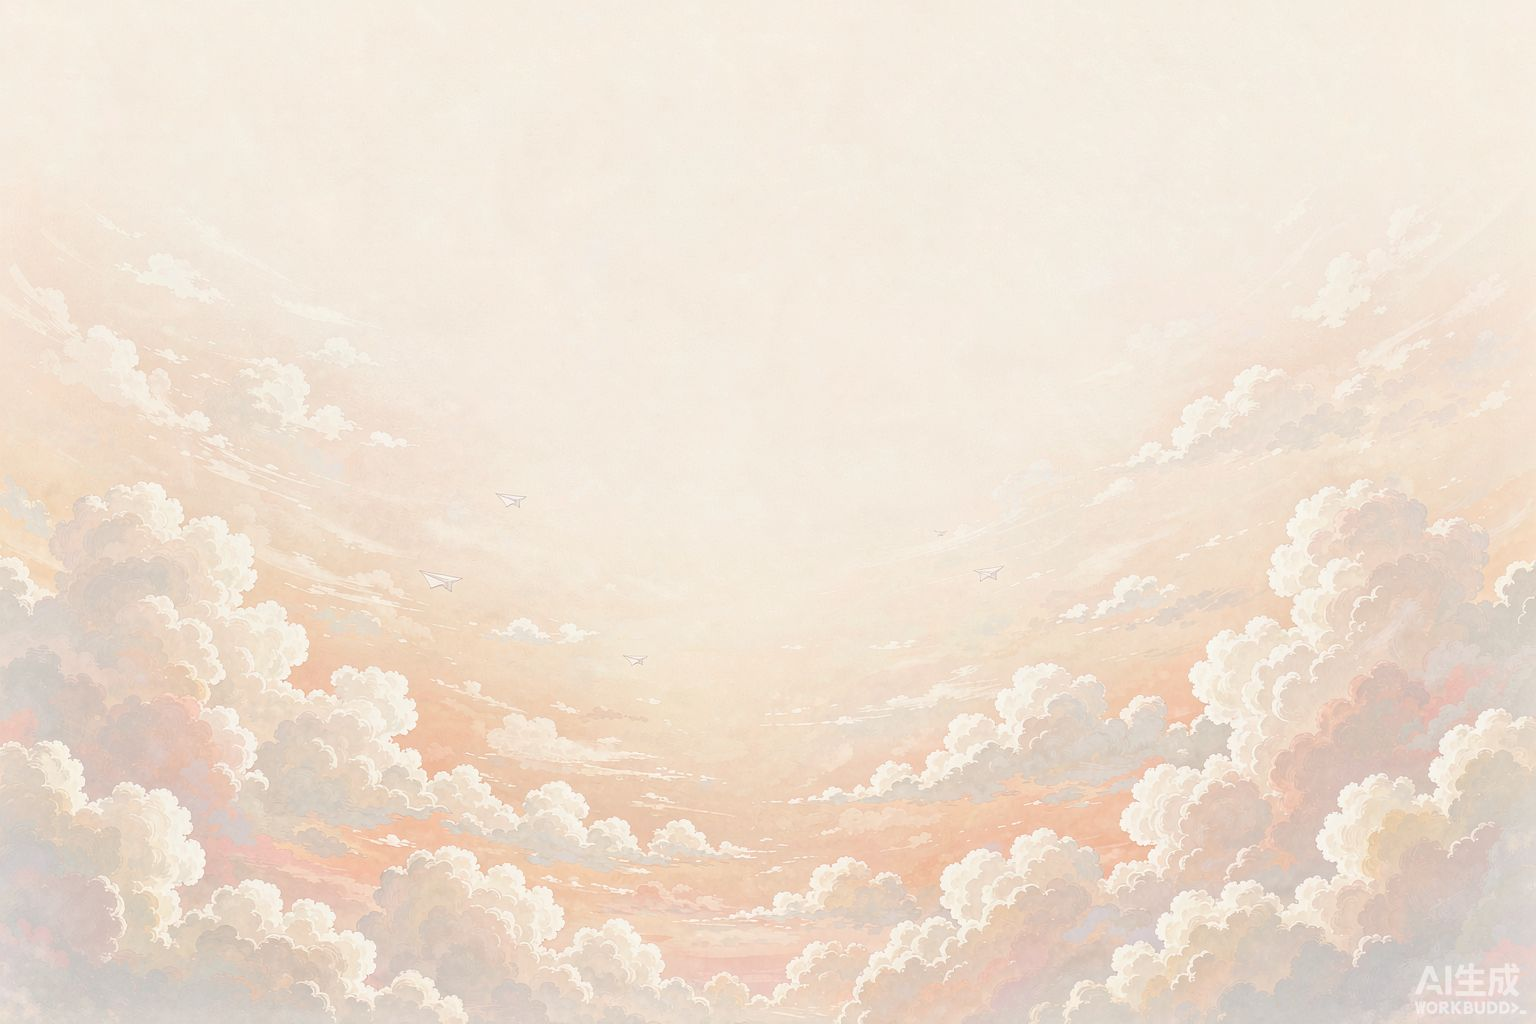
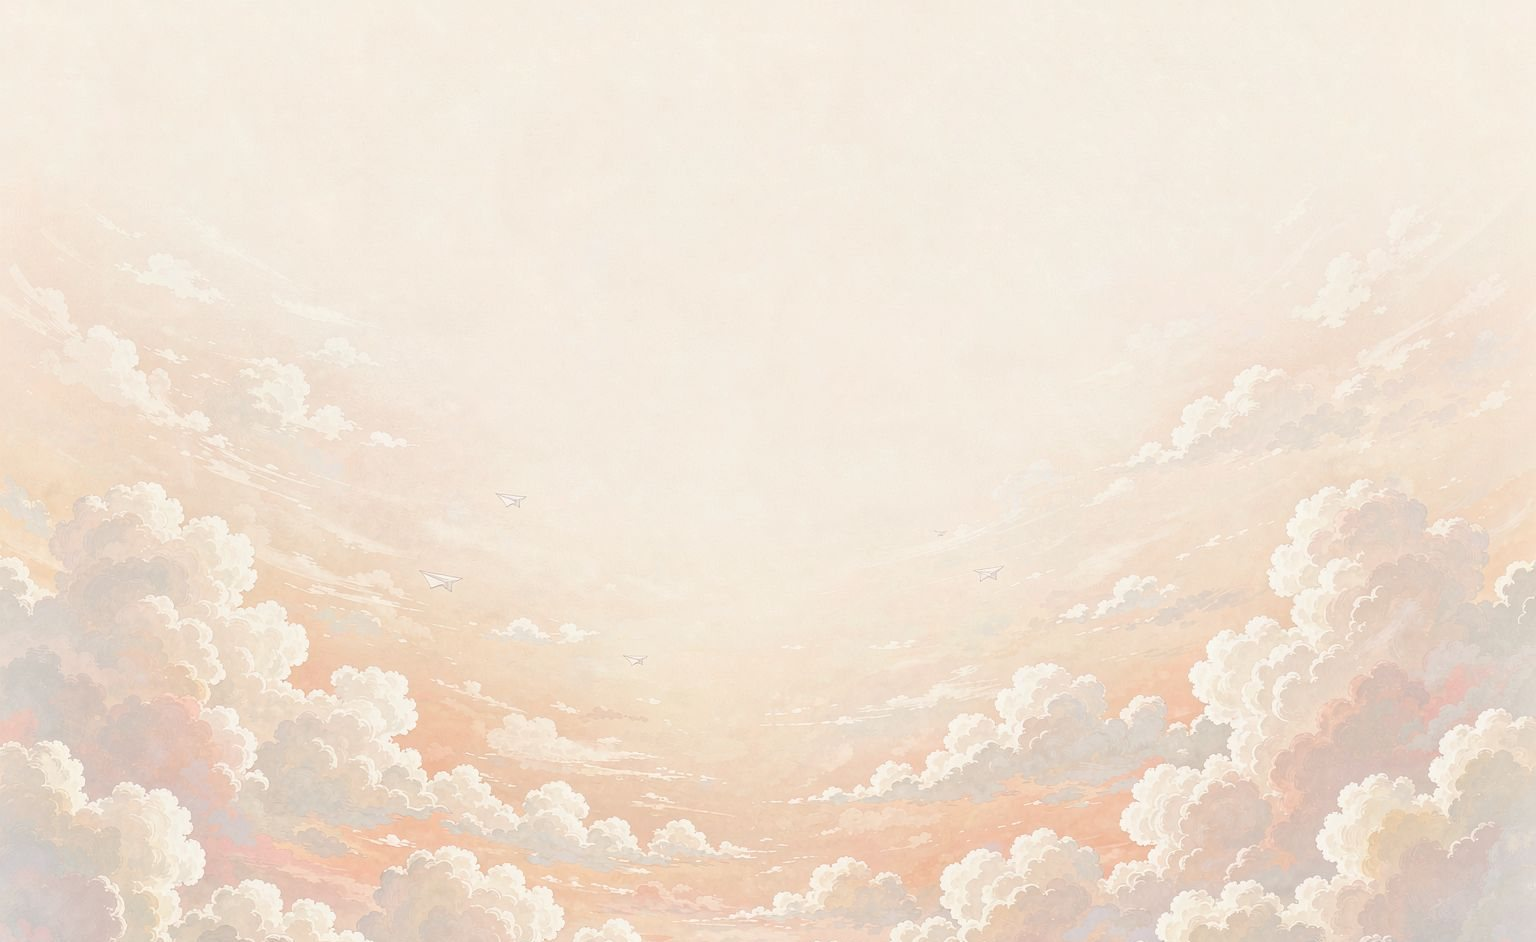
fix: 裁除背景图自带水印，Hero 改用贴角简洁品牌角条遮挡

diff --git a/src/style.css b/src/style.css
@@ -157,37 +157,22 @@ body {
 /* Hero 无额外光晕，保持干净底色 */
 .hero-content { max-width: 980px; position: relative; z-index: 1; }
 
-/* 夏日装饰：夏季限定印章卡（右下角，遮挡图库水印） */
-.hero-stamp {
+/* 夏日装饰：右下角品牌角条（遮挡图库水印，简洁贴角） */
+.hero-corner-tag {
   position: absolute;
-  right: clamp(24px, 6vw, 110px);
-  bottom: clamp(44px, 8vh, 88px);
-  z-index: 1;
-  width: clamp(132px, 13vw, 164px);
-  padding: 13px 14px 12px;
-  background: var(--card);
-  border: 1px solid var(--line);
-  box-shadow: 0 10px 28px rgba(58, 48, 30, 0.12);
-  text-align: center;
-  pointer-events: none;
+  right: 0;
+  bottom: 0;
+  z-index: 2;
+  display: flex;
+  flex-direction: column;
+  align-items: flex-end;
+  gap: 1px;
+  padding: 9px 16px 10px;
+  background: var(--accent);
+  line-height: 1.35;
 }
-.stamp-year { font-size: 8.5px; letter-spacing: 2px; color: var(--dim); font-weight: 600; }
-.stamp-seal {
-  display: block;
-  width: 84px;
-  height: 84px;
-  margin: 9px auto 10px;
-  padding: 12px 0 0;
-  background: #b8503a;
-  color: #fdf6ea;
-  font-size: 23px;
-  font-weight: 800;
-  line-height: 1.5;
-  letter-spacing: 4px;
-  text-indent: 4px;
-  box-shadow: inset 0 0 0 2px rgba(253, 246, 234, 0.55);
-}
-.stamp-en { font-size: 8.5px; letter-spacing: 2.5px; color: var(--dim); font-weight: 600; }
+.hero-corner-tag b { color: #fdf6ea; font-size: 13px; letter-spacing: 3px; font-weight: 700; }
+.hero-corner-tag i { color: rgba(253, 246, 234, 0.72); font-style: normal; font-size: 8.5px; letter-spacing: 2.5px; }
 /* 夏日装饰：底部波浪分隔 */
 .hero-waves {
   position: absolute;
@@ -730,7 +715,8 @@ main { position: relative; z-index: 1; }
   .hero-title { letter-spacing: 6px; text-indent: 6px; }
   .section { padding-top: 110px; }
   .statement { padding: 120px 24px; }
-  .hero-stamp { display: none; }
+  .hero-corner-tag { padding: 6px 12px 7px; }
+  .hero-corner-tag b { font-size: 11px; }
 }
 
 /* ============ Quasar 组件适配（白灰主题统一） ============ */

diff --git a/src/components/HeroSection.vue b/src/components/HeroSection.vue
@@ -11,12 +11,11 @@ const stats = [
     <div class="hero-bg" aria-hidden="true">
       <img :src="'./images/bg-hero.jpg'" alt="" />
     </div>
-    <!-- 夏日装饰：夏季限定印章卡（遮挡图库水印） -->
-    <div class="hero-stamp" aria-hidden="true">
-      <p class="stamp-year">2026 · SUMMER LIMITED</p>
-      <span class="stamp-seal">逐梦之夏</span>
-      <p class="stamp-en">DREAM IN SUMMER</p>
-    </div>
+    <!-- 夏日装饰：右下角品牌角条（遮挡图库水印） -->
+    <span class="hero-corner-tag" aria-hidden="true">
+      <b>逐梦之夏</b>
+      <i>DREAM IN SUMMER</i>
+    </span>
     <!-- 夏日装饰：底部波浪 -->
     <svg class="hero-waves" viewBox="0 0 1440 24" preserveAspectRatio="none" aria-hidden="true">
       <path d="M0 12 Q 60 2 120 12 T 240 12 T 360 12 T 480 12 T 600 12 T 720 12 T 840 12 T 960 12 T 1080 12 T 1200 12 T 1320 12 T 1440 12" />
